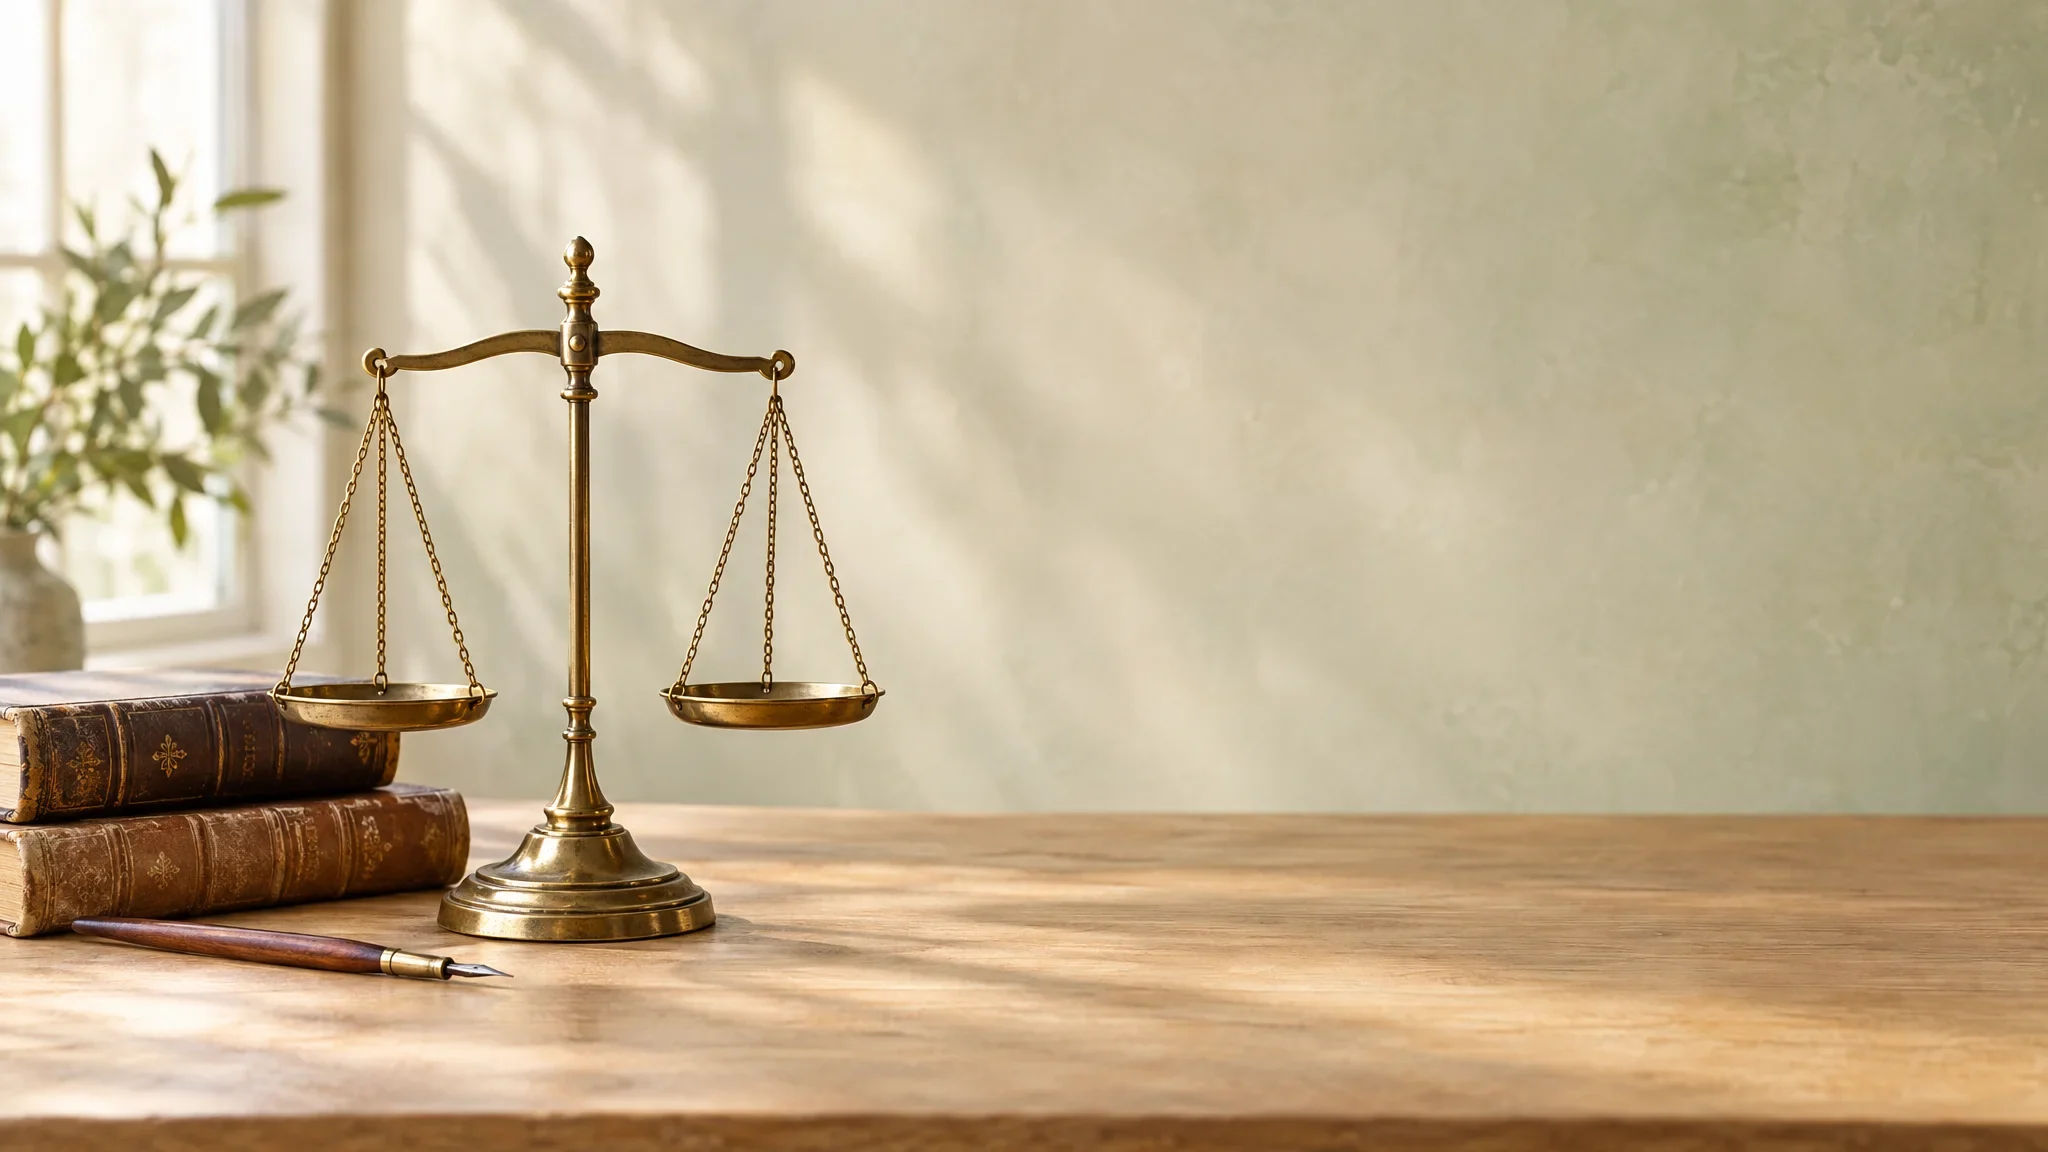
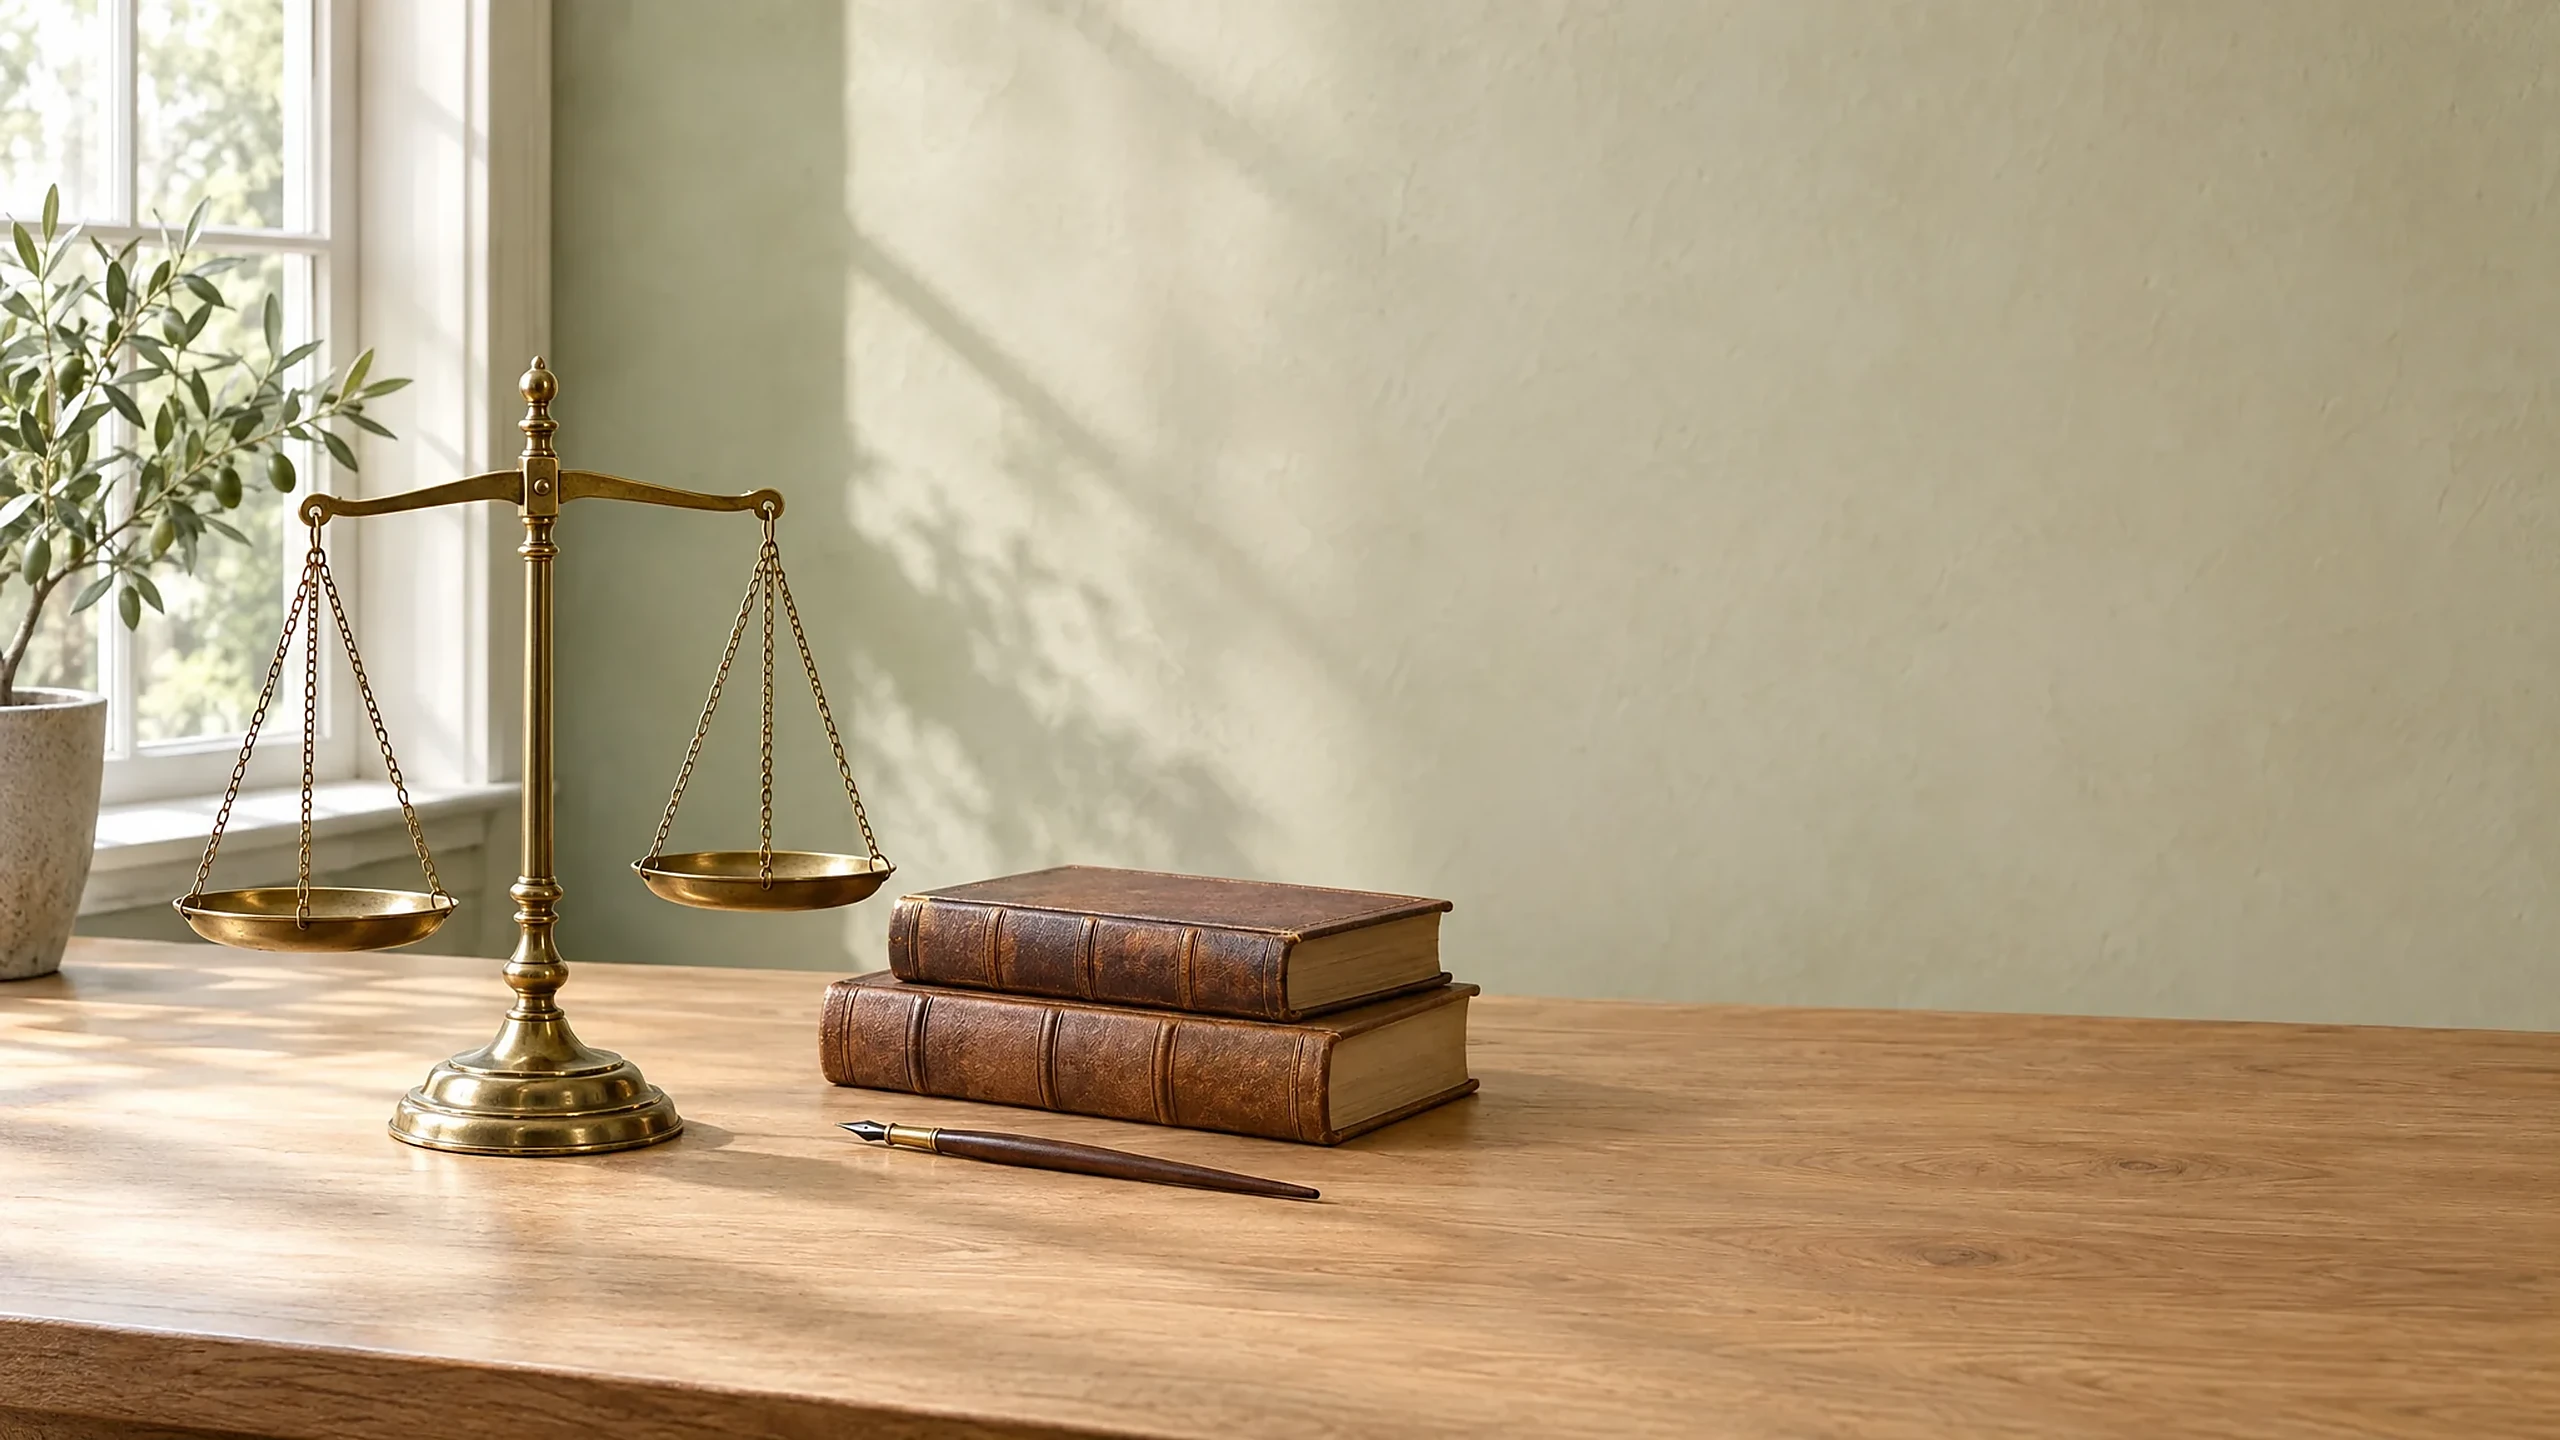
Sharp hero photograph with a lighter veil (#29)
- New render with everything in focus (no depth-of-field blur), saved at
  2560 px with light sharpening; a 1280 px version for phones.
- The veil behind the words is lighter and ends earlier, and the fade into
  the page is shorter, so more of the photograph stays clear.

diff --git a/web/style.css b/web/style.css
@@ -285,7 +285,7 @@ body[data-mode=app] #app{animation:fade-in .3s ease-out both}
 .land-actions .quiet{font-size:15px}
 .land-hero{position:relative;isolation:isolate;min-height:min(86svh,800px);display:flex;align-items:center;margin-top:-88px;padding:136px 0 80px}
 /* the study photograph, blurred and veiled in the page colour, fading out at the bottom: depth without edges */
-.land-hero::before{content:"";position:absolute;inset:0;z-index:-1;background:linear-gradient(to left,#f6f5f0f2 0%,#f6f5f0cc 30%,#f6f5f066 52%,transparent 68%),linear-gradient(to bottom,transparent 70%,var(--bg) 100%),image-set(url(/static/img/hero-light.webp) 1x) left center/cover no-repeat}
+.land-hero::before{content:"";position:absolute;inset:0;z-index:-1;background:linear-gradient(to left,#f6f5f0e6 0%,#f6f5f0b3 28%,#f6f5f033 48%,transparent 60%),linear-gradient(to bottom,transparent 86%,var(--bg) 100%),url(/static/img/hero-light.webp) left center/cover no-repeat}
 /* the header sits above the hero's backdrop */
 /* the header stays at the top while you scroll */
 /* the header lies on the photograph, then turns solid once the page scrolls */
